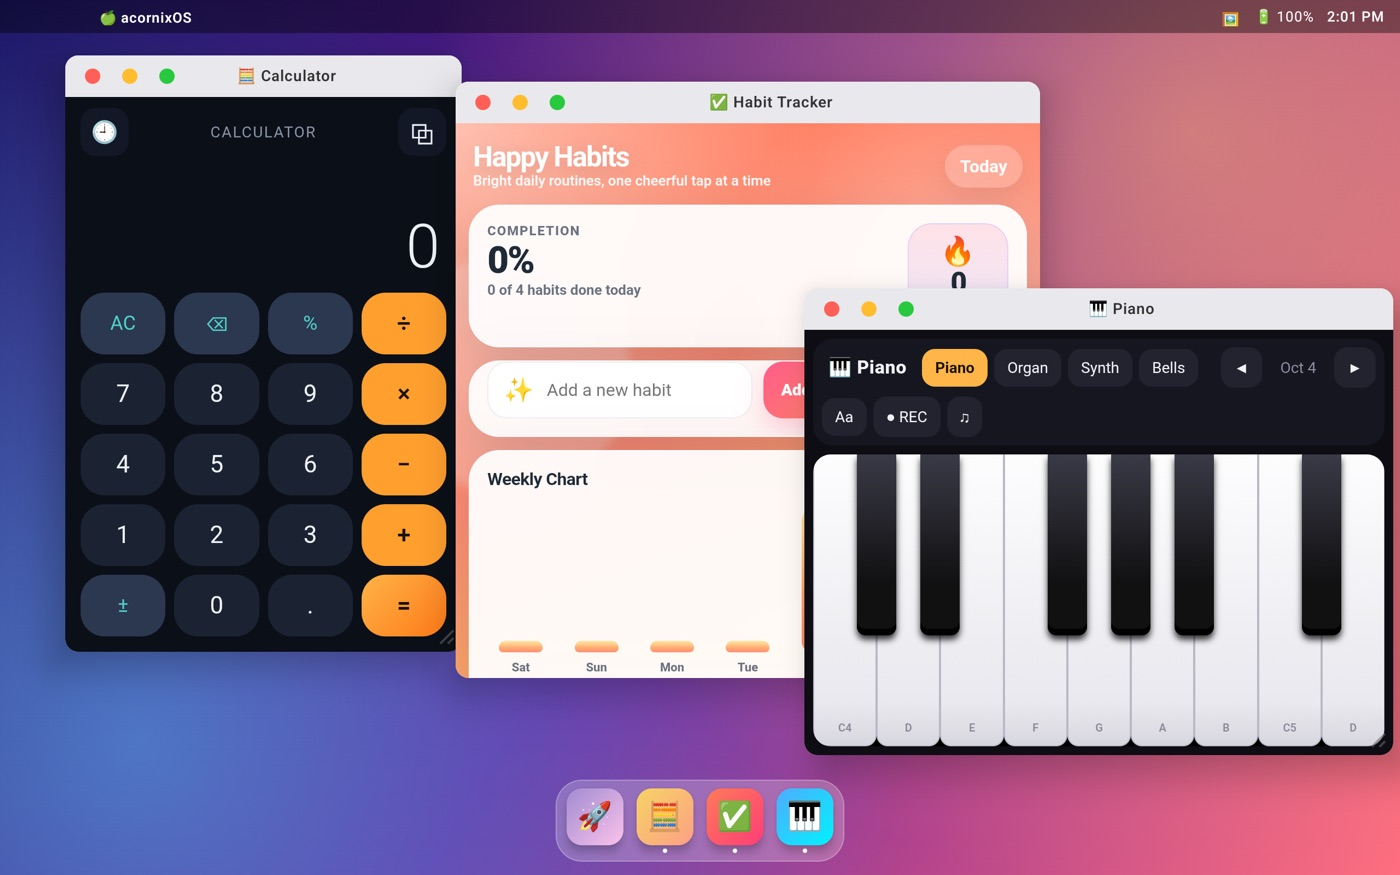
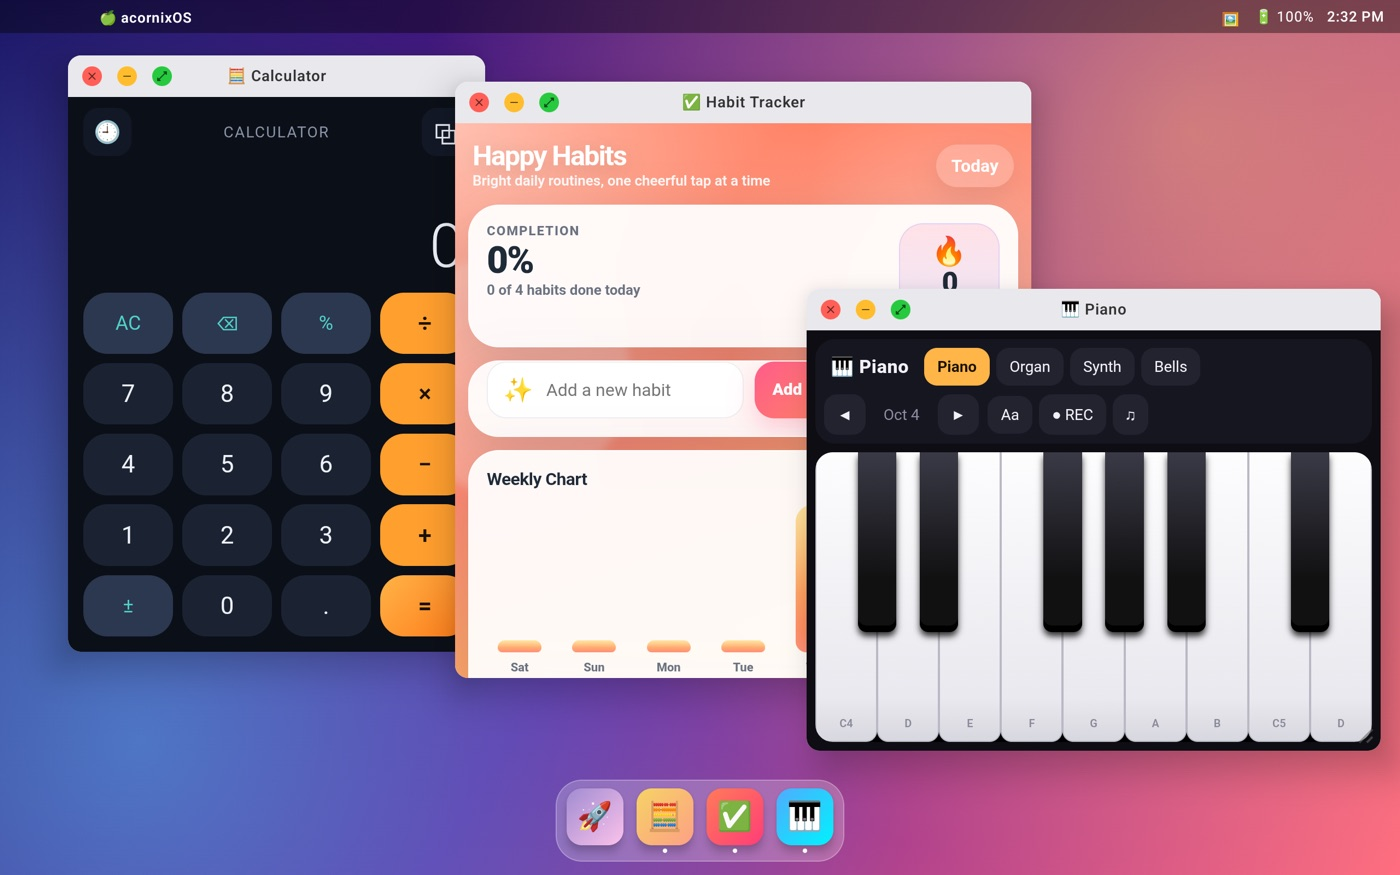
AcornixOS: symbols inside the window buttons
The red, yellow and green dots were hard to tell apart by color alone.
They now show ✕, − and expand/shrink icons all the time (phones have no
hover), are a bit bigger, and the green one switches to "restore" when
the window is maximized. README screenshots updated.

diff --git a/app/src/main/java/com/gonzaroman/acornix/ui/os/DesktopScreen.kt b/app/src/main/java/com/gonzaroman/acornix/ui/os/DesktopScreen.kt
@@ -43,8 +43,14 @@ import androidx.compose.foundation.rememberScrollState
 import androidx.compose.foundation.shape.CircleShape
 import androidx.compose.foundation.shape.RoundedCornerShape
 import androidx.compose.foundation.text.KeyboardOptions
+import androidx.compose.material.icons.Icons
+import androidx.compose.material.icons.rounded.Close
+import androidx.compose.material.icons.rounded.CloseFullscreen
+import androidx.compose.material.icons.rounded.OpenInFull
+import androidx.compose.material.icons.rounded.Remove
 import androidx.compose.material3.DropdownMenu
 import androidx.compose.material3.DropdownMenuItem
+import androidx.compose.material3.Icon
 import androidx.compose.material3.OutlinedTextField
 import androidx.compose.material3.OutlinedTextFieldDefaults
 import androidx.compose.material3.Text
@@ -65,6 +71,7 @@ import androidx.compose.ui.zIndex
 import androidx.compose.ui.geometry.Offset
 import androidx.compose.ui.graphics.Brush
 import androidx.compose.ui.graphics.Color
+import androidx.compose.ui.graphics.vector.ImageVector
 import androidx.compose.ui.hapticfeedback.HapticFeedbackType
 import androidx.compose.ui.input.pointer.PointerEventPass
 import androidx.compose.ui.input.pointer.pointerInput
@@ -295,14 +302,18 @@ private fun AppWindow(win: OsWindow, app: AppMeta?, areaW: Float, areaH: Float, 
                             win.y = (win.y + drag.y).coerceIn(0f, areaH - headerPx)
                         }
                     }
-                    .padding(horizontal = 12.dp),
+                    .padding(horizontal = 8.dp),
                 verticalAlignment = Alignment.CenterVertically,
             ) {
-                TrafficLight(Color(0xFFFF5F56), stringResource(R.string.os_close)) { actions.close(win) }
-                Spacer(Modifier.width(8.dp))
-                TrafficLight(Color(0xFFFFBD2E), stringResource(R.string.os_minimize)) { actions.minimize(win) }
-                Spacer(Modifier.width(8.dp))
-                TrafficLight(Color(0xFF27C93F), stringResource(R.string.os_maximize)) { win.maximized = !win.maximized }
+                TrafficLight(Color(0xFFFF5F56), Icons.Rounded.Close, stringResource(R.string.os_close)) { actions.close(win) }
+                Spacer(Modifier.width(4.dp))
+                TrafficLight(Color(0xFFFFBD2E), Icons.Rounded.Remove, stringResource(R.string.os_minimize)) { actions.minimize(win) }
+                Spacer(Modifier.width(4.dp))
+                TrafficLight(
+                    Color(0xFF27C93F),
+                    if (win.maximized) Icons.Rounded.CloseFullscreen else Icons.Rounded.OpenInFull,
+                    stringResource(if (win.maximized) R.string.os_restore else R.string.os_maximize),
+                ) { win.maximized = !win.maximized }
                 Text(
                     listOfNotNull(app?.emoji, app?.name ?: win.appId).joinToString(" "),
                     color = Color(0xFF333333),
@@ -311,7 +322,7 @@ private fun AppWindow(win: OsWindow, app: AppMeta?, areaW: Float, areaH: Float, 
                     maxLines = 1,
                     overflow = TextOverflow.Ellipsis,
                     textAlign = TextAlign.Center,
-                    modifier = Modifier.weight(1f).padding(end = 52.dp),
+                    modifier = Modifier.weight(1f).padding(end = 92.dp),
                 )
             }
             AndroidView(
@@ -343,13 +354,16 @@ private fun AppWindow(win: OsWindow, app: AppMeta?, areaW: Float, areaH: Float, 
 }
 
 @Composable
-private fun TrafficLight(color: Color, label: String, onClick: () -> Unit) {
-    // A 14dp dot with a bigger invisible touch area.
+private fun TrafficLight(color: Color, icon: ImageVector, label: String, onClick: () -> Unit) {
+    // A colored dot with its symbol always visible (macOS only shows it on hover, and phones have no
+    // hover), inside a bigger invisible touch area.
     Box(
-        Modifier.size(26.dp).clip(CircleShape).clickable(onClickLabel = label, onClick = onClick),
+        Modifier.size(28.dp).clip(CircleShape).clickable(onClickLabel = label, onClick = onClick),
         contentAlignment = Alignment.Center,
     ) {
-        Box(Modifier.size(14.dp).clip(CircleShape).background(color))
+        Box(Modifier.size(18.dp).clip(CircleShape).background(color), contentAlignment = Alignment.Center) {
+            Icon(icon, contentDescription = label, tint = Color.Black.copy(alpha = 0.6f), modifier = Modifier.size(12.dp))
+        }
     }
 }
 
